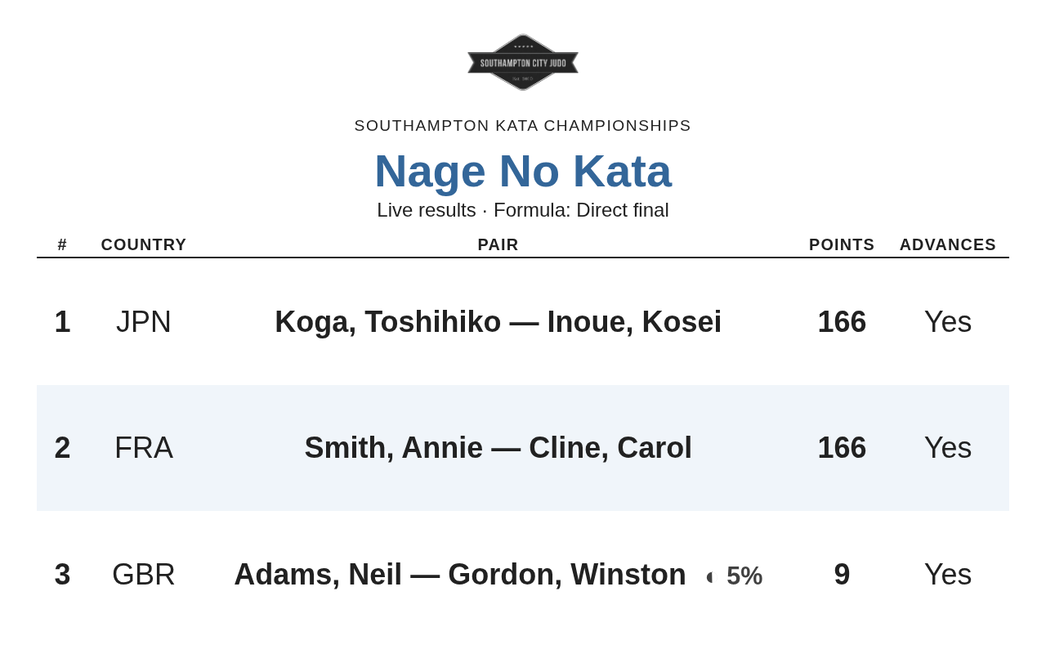
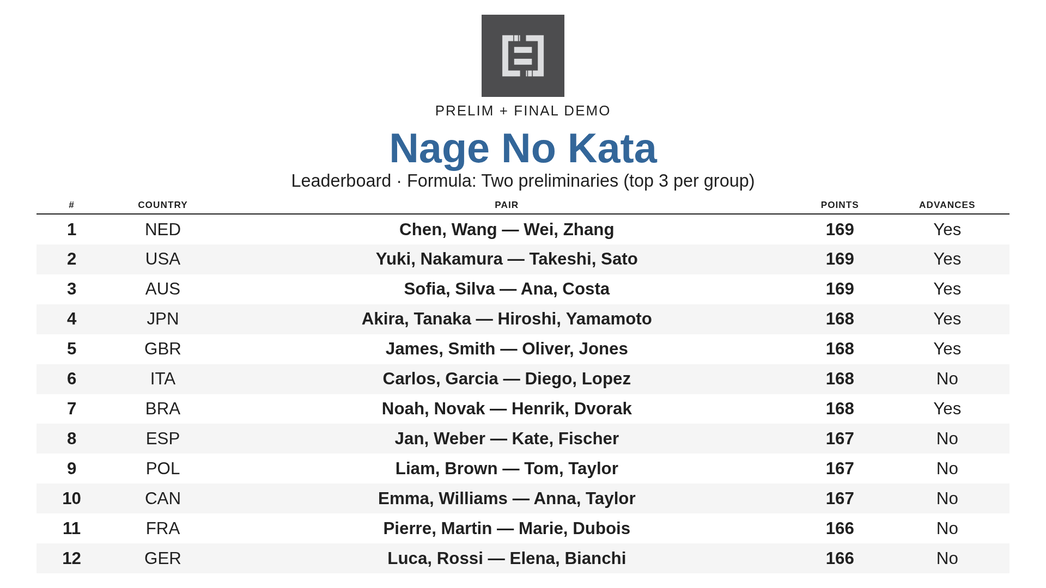
Document prelim-to-final flow and large-field display on the site.
Add screenshots and workflow copy for Start final, two-round PDF packs, hall scaling, and prelim/final leaderboards.

diff --git a/how-it-works/index.html b/how-it-works/index.html
@@ -149,6 +149,7 @@
           <li><a href="#pairs">Pairs</a></li>
           <li><a href="#judges">Judges</a></li>
           <li><a href="#draw">Draw</a></li>
+          <li><a href="#final-round">Prelim to final</a></li>
           <li><a href="#mats">Mats</a></li>
           <li><a href="#tablets">Judge tablets</a></li>
           <li><a href="#announcer">Announcer</a></li>
@@ -294,15 +295,68 @@
           again overwrites that kata's order, with an optional wipe when you
           also need to remove scores already entered.
         </p>
+        <p>
+          When the formula uses one or two preliminary rounds, a
+          <strong>Start final</strong> button appears on the draw page once
+          every prelim pair is complete. Direct finals of six or fewer pairs
+          skip this — there is only one round.
+        </p>
         <figure>
           <img
-            src="/screenshots/Draw.png"
-            alt="Draw page for Nage-no-Kata with run-draw controls"
+            src="/screenshots/Draw-Start-Final.png"
+            alt="Draw page for Nage-no-Kata showing judge blocks for performances 1–5, 6–10, and 11–12, with Start final ready after prelims are scored"
             loading="lazy"
             width="1046"
-            height="761"
+            height="1644"
           />
-          <figcaption>Performance draw</figcaption>
+          <figcaption>Draw with judge blocks and Start final</figcaption>
+        </figure>
+
+        <h2 id="final-round">Prelim to final</h2>
+        <p>
+          After prelims, the clerk starts the final from the draw page. The
+          system picks the advancers from prelim scores only, re-randomises
+          their performance order, re-seats the judges, and switches live mats,
+          tablets, and the hall board to the final queue. Prelim draw, scores,
+          and mat history stay untouched.
+        </p>
+        <p>
+          Medal totals come from the final round only. The hall results screen
+          shows <strong>Final</strong> as the formula kicker and lists the six
+          (or four) finalists without an Advances column. The clerk leaderboard
+          keeps Preliminary and Final tabs so you can still read who qualified
+          and who was cut. If no final scores have been entered yet, you can
+          undo the switch from the draw page.
+        </p>
+        <figure>
+          <img
+            src="/screenshots/Draw-Final.png"
+            alt="Draw page after Start final, with Re-randomise the Final controls and Undo final"
+            loading="lazy"
+            width="1046"
+            height="1644"
+          />
+          <figcaption>Final draw with Undo final</figcaption>
+        </figure>
+        <figure>
+          <img
+            src="/screenshots/Live-Results-Prelims.png"
+            alt="Hall results for Nage-no-Kata during prelims showing twelve pairs, an Advances column, and the formula Two preliminaries (top 3 per group)"
+            loading="lazy"
+            width="1046"
+            height="588"
+          />
+          <figcaption>Prelim results on the hall screen</figcaption>
+        </figure>
+        <figure>
+          <img
+            src="/screenshots/Live-Results-Final.png"
+            alt="Hall results after the final has started, showing six finalists ranked by final points and the formula Final"
+            loading="lazy"
+            width="1046"
+            height="588"
+          />
+          <figcaption>Final results on the hall screen</figcaption>
         </figure>
 
         <h2 id="mats">Mats</h2>
@@ -401,6 +455,13 @@
           scoresheet with a checkbox grid, totals, judge and data-entry
           signature blocks, and the event logo in the header.
         </p>
+        <p>
+          Large fields paginate order and results across extra A4 pages so
+          every pair appears. After the final has started, a single-kata
+          download adds a second block labelled <strong>Preliminary</strong>
+          then <strong>Final</strong> — each with its own order, results, and
+          scoresheets — in one file.
+        </p>
         <div class="pdf-gallery">
           <figure>
             <img
@@ -452,6 +513,46 @@
             />
             <figcaption>Pair×judge scoresheet</figcaption>
           </figure>
+          <figure>
+            <img
+              src="/screenshots/PDF-Prelim-Order.png"
+              alt="PDF page titled Nage No Kata - Preliminary - Performance order listing twelve pairs and judging teams"
+              loading="lazy"
+              width="1046"
+              height="1480"
+            />
+            <figcaption>Preliminary performance order</figcaption>
+          </figure>
+          <figure>
+            <img
+              src="/screenshots/PDF-Prelim-Results.png"
+              alt="PDF page titled Nage No Kata - Preliminary - Results with rank, nations, pair, and points for twelve pairs"
+              loading="lazy"
+              width="1046"
+              height="1480"
+            />
+            <figcaption>Preliminary results</figcaption>
+          </figure>
+          <figure>
+            <img
+              src="/screenshots/PDF-Final-Order.png"
+              alt="PDF page titled Nage No Kata - Final - Performance order listing six finalists and judging teams"
+              loading="lazy"
+              width="1046"
+              height="1480"
+            />
+            <figcaption>Final performance order</figcaption>
+          </figure>
+          <figure>
+            <img
+              src="/screenshots/PDF-Final-Results.png"
+              alt="PDF page titled Nage No Kata - Final - Results ranking six finalists by final points"
+              loading="lazy"
+              width="1046"
+              height="1480"
+            />
+            <figcaption>Final results</figcaption>
+          </figure>
         </div>
 
         <h2 id="live-results">Live results</h2>
@@ -459,18 +560,25 @@
           Project the ranking on a hall screen — large type, no clerk menu.
           Scores update in place as judges tap, including provisional points
           while a pair is still being scored, with an in-progress marker and
-          progress %. Open <code>/results?rotate=1</code> to loop through kata;
-          how long each stays on screen is set in Config. Switch language with
+          progress %. The table scales to fit every row on a 1080p projector
+          from rank 1, so a large preliminary field stays readable without
+          scrolling. Small direct finals keep the jumbo type. During prelims
+          the Advances column shows who would qualify; it hides on direct
+          finals and after the final has started.
+        </p>
+        <p>
+          Open <code>/results?rotate=1</code> to loop through kata; how long
+          each stays on screen is set in Config. Switch language with
           <code>?lang=en</code> or <code>fr</code>; use
           <code>?theme=dark</code> and <code>?zoom=</code> like the tablets.
         </p>
         <figure>
           <img
             src="/screenshots/Live-Results.png"
-            alt="Live results display for Nage-no-Kata showing ranked pairs, points, and an in-progress marker on a pair still being scored"
+            alt="Live results display for Nage-no-Kata during two preliminaries showing twelve ranked pairs with an Advances column"
             loading="lazy"
             width="1046"
-            height="654"
+            height="588"
           />
           <figcaption>Live results display</figcaption>
         </figure>
@@ -479,19 +587,33 @@
         <p>
           Leaderboards are the same ranking for the clerk, including
           provisional totals and the in-progress marker while a panel is still
-          scoring. Download totals CSV (rank, country, pair, points) and
-          techniques CSV (per judge, per technique).
+          scoring. After the final has started, switch between Preliminary and
+          Final tabs; the prelim view keeps the Advances column. Download
+          totals CSV (rank, country, pair, points) and techniques CSV (per
+          judge, per technique) for the round you are viewing.
         </p>
-        <figure>
-          <img
-            src="/screenshots/Leaderboard-Kata.png"
-            alt="Leaderboard page ranking pairs by total score with CSV download links and an in-progress marker"
-            loading="lazy"
-            width="1046"
-            height="654"
-          />
-          <figcaption>Leaderboard page</figcaption>
-        </figure>
+        <div class="pdf-gallery">
+          <figure>
+            <img
+              src="/screenshots/Leaderboard-Prelim.png"
+              alt="Clerk leaderboard on the Preliminary tab showing twelve pairs ranked with an Advances column"
+              loading="lazy"
+              width="1046"
+              height="1644"
+            />
+            <figcaption>Preliminary leaderboard</figcaption>
+          </figure>
+          <figure>
+            <img
+              src="/screenshots/Leaderboard-Final.png"
+              alt="Clerk leaderboard on the Final tab showing six finalists ranked by final points"
+              loading="lazy"
+              width="1046"
+              height="1046"
+            />
+            <figcaption>Final leaderboard</figcaption>
+          </figure>
+        </div>
 
         <h2 id="audit">Scoring audit</h2>
         <p>

diff --git a/index.html b/index.html
@@ -110,6 +110,16 @@
         },
         {
           "@type": "ImageObject",
+          "url": "https://katajudo.com/screenshots/Live-Results-Final.png",
+          "caption": "Hall results after the final has started"
+        },
+        {
+          "@type": "ImageObject",
+          "url": "https://katajudo.com/screenshots/PDF-Prelim-Order.png",
+          "caption": "Preliminary performance order in a two-round PDF pack"
+        },
+        {
+          "@type": "ImageObject",
           "url": "https://katajudo.com/screenshots/PDF-Scoresheet.png",
           "caption": "Printable pair×judge PDF scoresheet"
         }
@@ -121,6 +131,8 @@
         "Import competitors from IJF Judobase or CSV",
         "EJU, kata-judge/BJA-style, and IJF scoring rulesets",
         "Printable PDF scoresheet packs",
+        "Preliminary rounds with clerk-started finals and medal totals from the final only",
+        "Large-field hall results that fit every row on a 1080p projector",
         "Offline SQLite file per event",
         "English and French live screens"
       ],
@@ -219,6 +231,10 @@
                 Run the draw, seat the panel, and assign performances to mats
               </li>
               <li>
+                Start the final when prelims are complete — re-draw advancers,
+                re-seat judges, and keep prelim scores on record
+              </li>
+              <li>
                 Print a full-day PDF pack — or one kata — when you need paper at
                 the table
               </li>
@@ -268,6 +284,10 @@
                 Project live results that update as judges tap, with provisional
                 points and an in-progress marker, and can rotate through kata
               </li>
+              <li>
+                Scale the hall table to fit every pair from rank 1 on a 1080p
+                screen; show who advances during prelims
+              </li>
               <li>Switch English or French on the live screens</li>
               <li>
                 Spectators can use public links without the organiser PIN
@@ -299,12 +319,22 @@
           <figure>
             <img
               src="/screenshots/Live-Results.png"
-              alt="Live results display for Nage-no-Kata showing ranked pairs, points, and an in-progress marker on a pair still being scored"
+              alt="Live results display for Nage-no-Kata during two preliminaries showing twelve ranked pairs with an Advances column"
               loading="lazy"
               width="1046"
-              height="654"
+              height="588"
             />
             <figcaption>Live results display</figcaption>
+          </figure>
+          <figure>
+            <img
+              src="/screenshots/Live-Results-Final.png"
+              alt="Hall results after the final has started, showing six finalists and the formula Final"
+              loading="lazy"
+              width="1046"
+              height="588"
+            />
+            <figcaption>Final results on the hall screen</figcaption>
           </figure>
           <figure>
             <img
